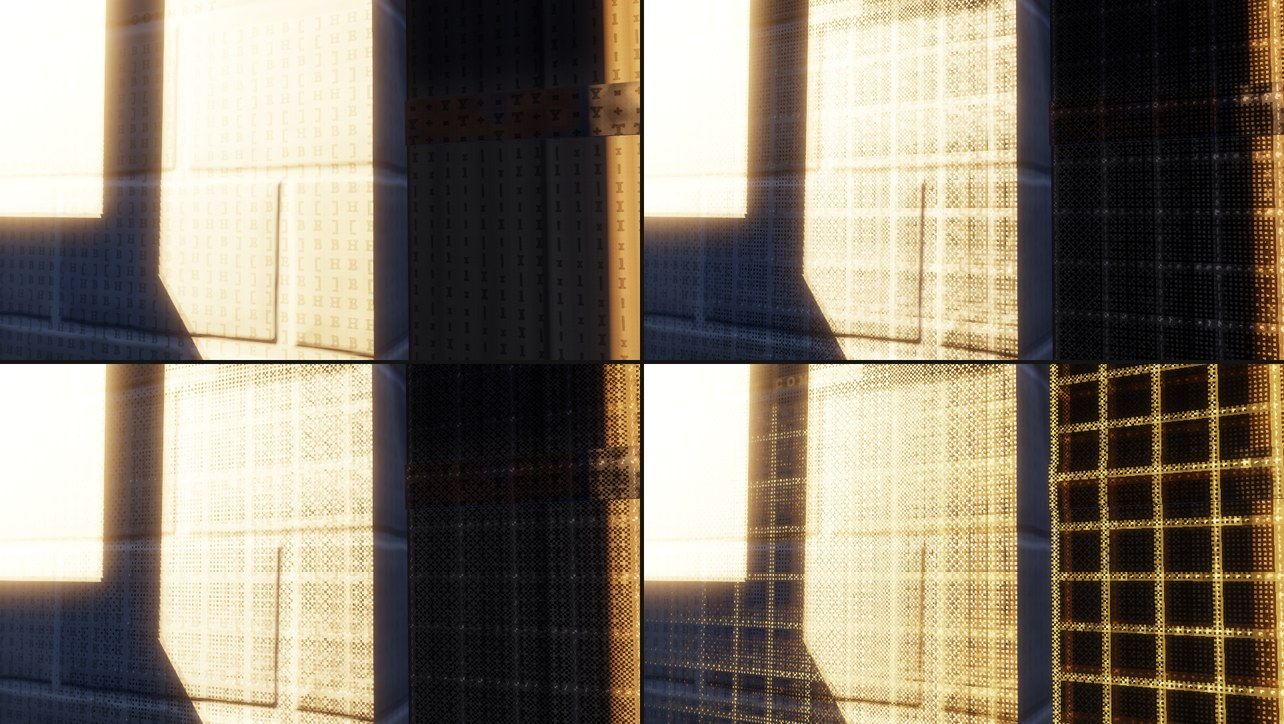
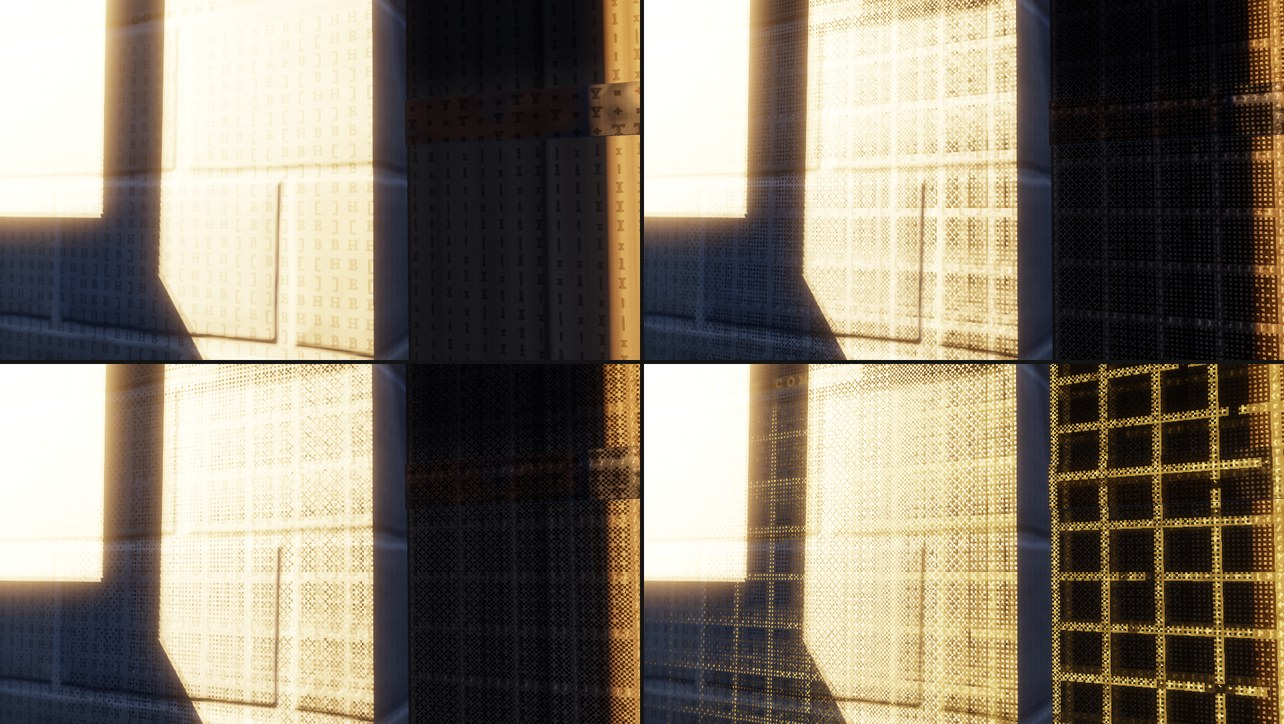
revert(looks): back to the plainer lattice, at the owner's word
The owner preferred the lattice before the special characters and the added
effects. Out: the special characters, the pulse, the colour shift with depth, the
glowing crossings, and the loose drifting characters. Kept: the nested frames,
which the owner asked for, with gentler brightness steps, and the sentences'
plate and thickness.

Claude-Session: https://claude.ai/code/session_01729CUtx9ecYqazyoA1zXTK

diff --git a/docs/DECISIONS.md b/docs/DECISIONS.md
@@ -14,15 +14,11 @@ own ray.
 **No line is drawn.** Only cells on the lattice's edges hold characters. Crossings are
 drawn brighter, since they are what the eye lines up into a frame.
 
-**The lattice is ruled in ASCII's special characters,** all thirty-two of them, chosen by
-what they suggest: dashes and tildes along edges across the page, bars and colons up it,
-points and commas along edges running away, and the heavy marks (`+ * # % & @ $`) at
-crossings, heavier for the larger frames. One cell in six is one of the thing's own
-letters. It stays inside the 95 printable characters: the atlas holds no others, and
-the rule that the world is written in them is the owner's to lift.
-
-**Depth is lit as depth:** dimmer and cooler the deeper it lies (redder in the source),
-with a slow pulse travelling inward.
+**The lattice is written in the thing's own letters, and lit only by depth.** A version
+ruled in ASCII's special characters, with a pulse, a colour shift with depth, glowing
+crossings, and loose drifting characters, was built and shown; the owner preferred the
+plainer lattice, and those were taken out again. The nested frames stay: an edge of a
+larger frame is brighter. Deeper is dimmer, and that is all.
 
 **Written words are given thickness.** A written letter is drawn again four times
 behind itself across a fifth of its cell, in shade, so that from the side it is a small
